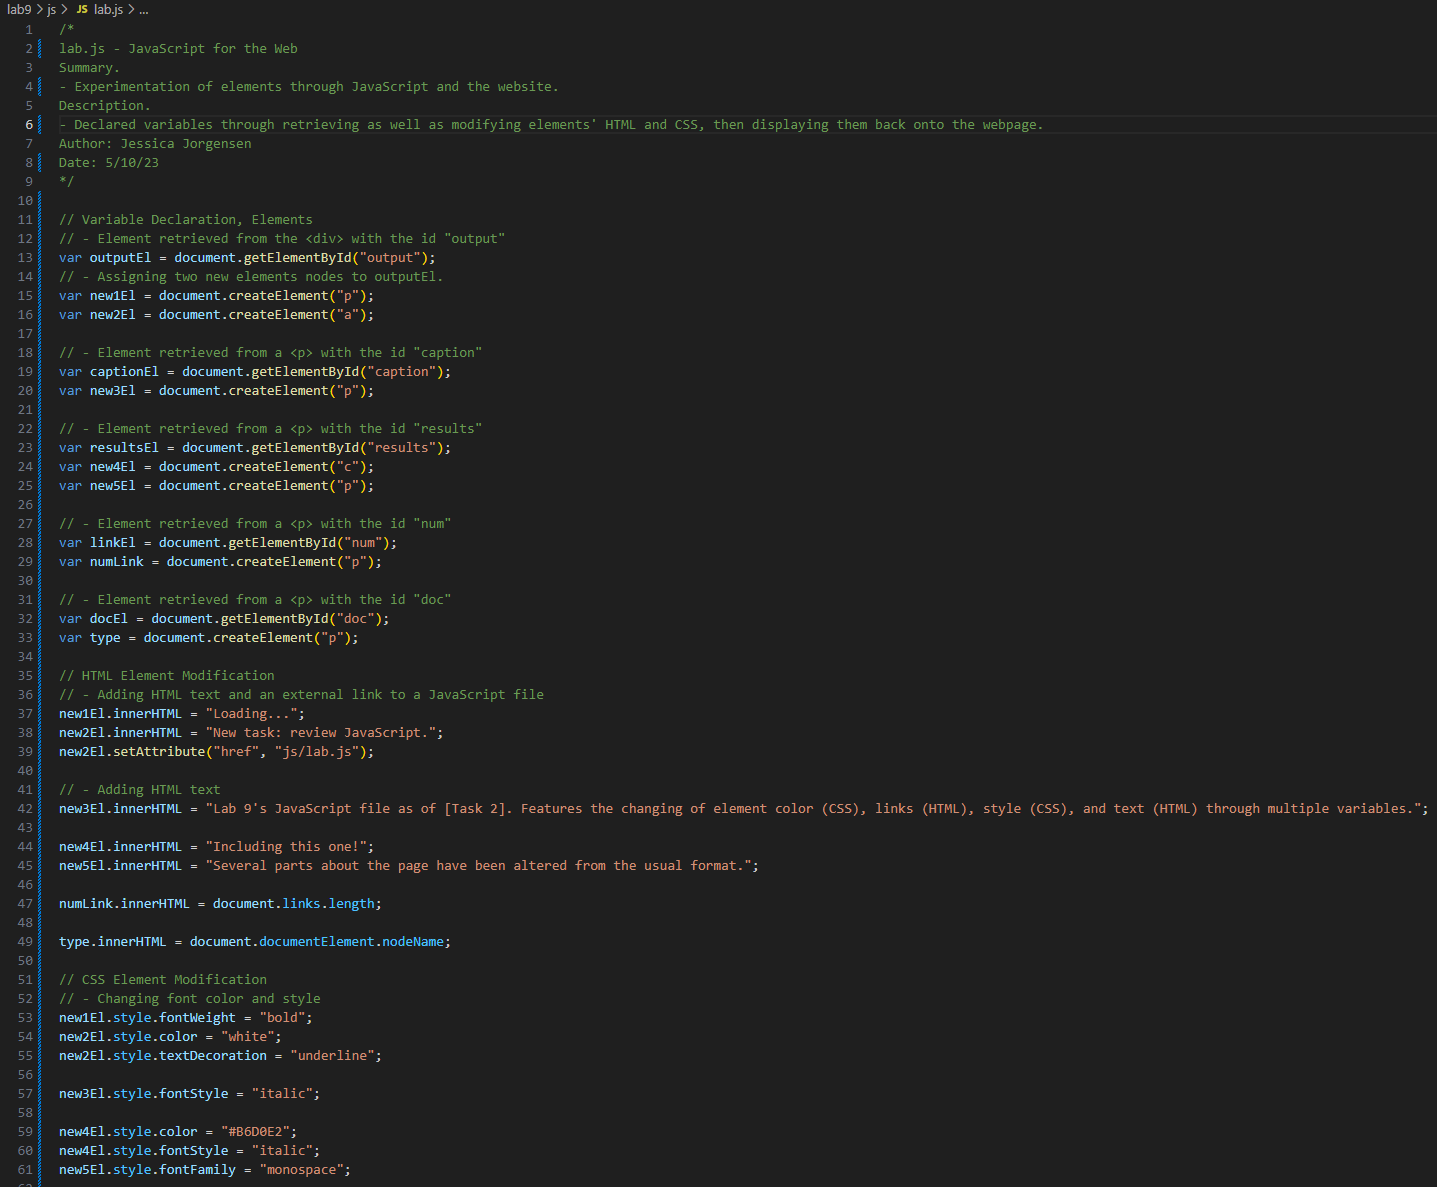
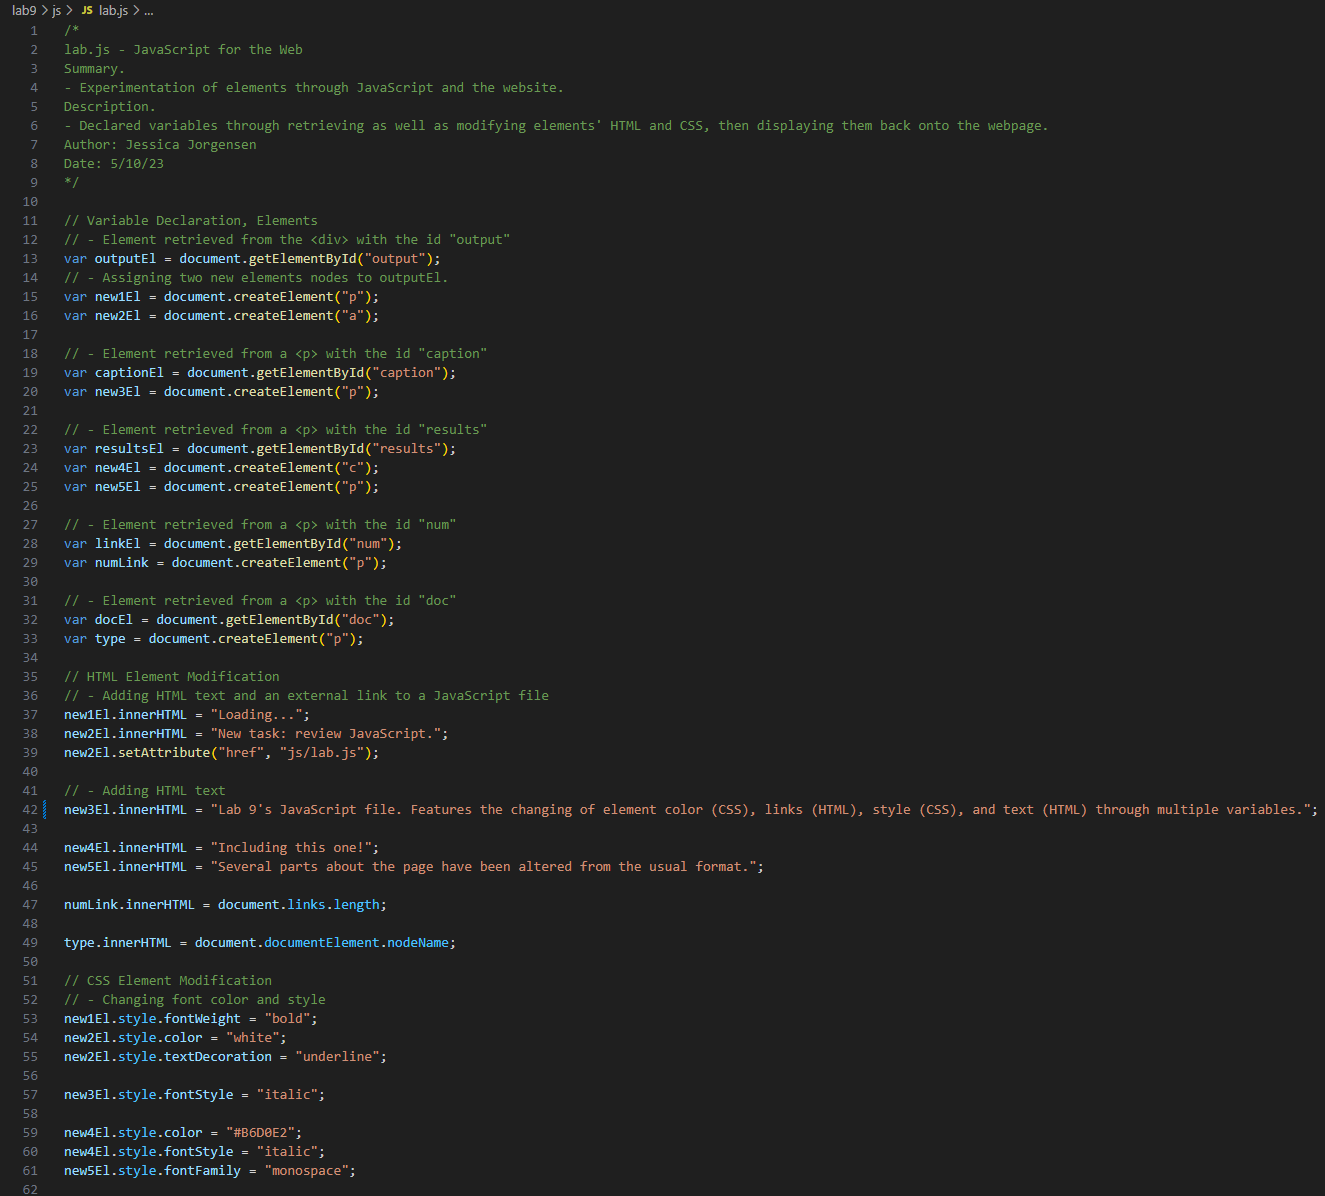
Lab 9, 2

Changed region(s): [[0.0, 0.0, 0.9902, 1.0]]

diff --git a/lab9/js/lab.js b/lab9/js/lab.js
@@ -39,7 +39,7 @@ new2El.innerHTML = "New task: review JavaScript.";
 new2El.setAttribute("href", "js/lab.js");
 
 // - Adding HTML text
-new3El.innerHTML = "Lab 9's JavaScript file as of [Task 2]. Features the changing of element color (CSS), links (HTML), style (CSS), and text (HTML) through multiple variables.";
+new3El.innerHTML = "Lab 9's JavaScript file. Features the changing of element color (CSS), links (HTML), style (CSS), and text (HTML) through multiple variables.";
 
 new4El.innerHTML = "Including this one!";
 new5El.innerHTML = "Several parts about the page have been altered from the usual format.";
